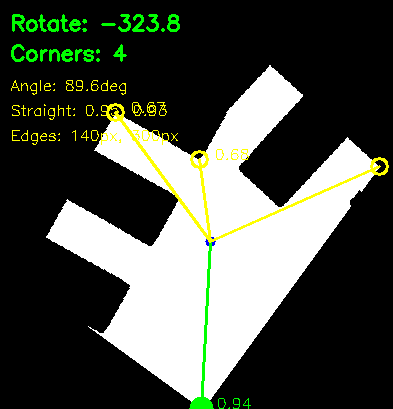
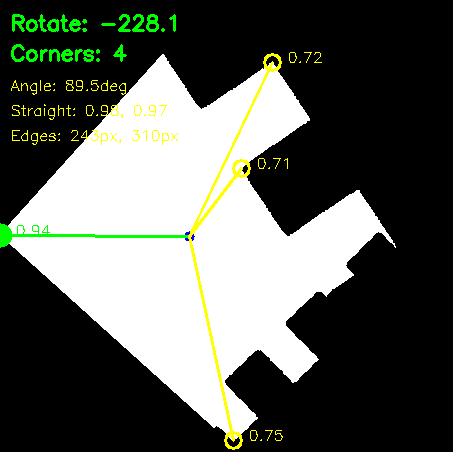
movement arrows

Changed region(s): [[0.0, 0.0293, 1.0, 1.0]]

diff --git a/src/ui/simulator/solver_visualizer.py b/src/ui/simulator/solver_visualizer.py
@@ -349,18 +349,6 @@ class SolverVisualizer(BoxLayout):
         if show_movements and 'movement_data' in self.solver_data:
             canvas = self._add_com_dots(canvas)
         
-        # Area labels
-        cv2.putText(canvas, "A5 SOURCE (Original)", (source_offset_x + 15, source_offset_y + 35), cv2.FONT_HERSHEY_SIMPLEX, 0.9, (255, 255, 255), 3)
-        cv2.putText(canvas, "A5 SOURCE (Original)", (source_offset_x + 15, source_offset_y + 35), cv2.FONT_HERSHEY_SIMPLEX, 0.9, (0, 150, 0), 2)
-        cv2.putText(canvas, "A4 TARGET (Current)", (target_offset_x + 15, target_offset_y + 35), cv2.FONT_HERSHEY_SIMPLEX, 0.9, (255, 255, 255), 3)
-        cv2.putText(canvas, "A4 TARGET (Current)", (target_offset_x + 15, target_offset_y + 35), cv2.FONT_HERSHEY_SIMPLEX, 0.9, (0, 100, 200), 2)
-        
-        # Grid
-        for i in range(0, global_height, 100):
-            cv2.line(canvas, (0, i), (global_width, i), (180, 180, 180), 1)
-        for i in range(0, global_width, 100):
-            cv2.line(canvas, (i, 0), (i, global_height), (180, 180, 180), 1)
-        
         return canvas
         
     def _rotate_shape(self, shape: np.ndarray, angle: float) -> np.ndarray:
@@ -470,52 +458,222 @@ class SolverVisualizer(BoxLayout):
         
         self.image_widget.texture = texture
 
+
     def _add_com_dots(self, canvas):
-        """Add COM dots to existing canvas."""
+        """Add COM dots, movement arrows, and movement values to existing canvas."""
         movement_data = self.solver_data['movement_data']
         source_coms = movement_data.get('source_coms', {})
         target_coms = movement_data.get('target_coms', {})
         movements = movement_data.get('movements', {})
         
+        print(f"🎯 Adding COM visualization for {len(source_coms)} pieces...")
+        
+        movement_summary = []  # Collect movement data for display
+        
         for piece_id in source_coms:
             source_com = source_coms[piece_id]
             
-            # Source COM (yellow)
+            # Source COM (yellow with S)
             cv2.circle(canvas, (int(source_com[0]), int(source_com[1])), 8, (0, 0, 0), -1)
             cv2.circle(canvas, (int(source_com[0]), int(source_com[1])), 6, (255, 255, 0), -1)
-            cv2.putText(canvas, "S", (int(source_com[0]) - 4, int(source_com[1]) + 3), cv2.FONT_HERSHEY_SIMPLEX, 0.3, (0, 0, 0), 1)
+            cv2.putText(canvas, "S", (int(source_com[0]) - 4, int(source_com[1]) + 3), 
+                    cv2.FONT_HERSHEY_SIMPLEX, 0.3, (0, 0, 0), 1)
             
-            # Target COM (cyan)
-            if piece_id in target_coms:
+            # Target COM and movement arrow
+            if piece_id in target_coms and piece_id in movements:
                 target_com = target_coms[piece_id]
+                movement = movements[piece_id]
+                
+                # Target COM (cyan with T)
                 cv2.circle(canvas, (int(target_com[0]), int(target_com[1])), 8, (0, 0, 0), -1)
                 cv2.circle(canvas, (int(target_com[0]), int(target_com[1])), 6, (0, 255, 255), -1)
-                cv2.putText(canvas, "T", (int(target_com[0]) - 4, int(target_com[1]) + 3), cv2.FONT_HERSHEY_SIMPLEX, 0.3, (0, 0, 0), 1)
+                cv2.putText(canvas, "T", (int(target_com[0]) - 4, int(target_com[1]) + 3), 
+                        cv2.FONT_HERSHEY_SIMPLEX, 0.3, (0, 0, 0), 1)
                 
-                # Movement info
-                if piece_id in movements:
-                    movement = movements[piece_id]
-                    text = f"P{piece_id}: {movement['distance']:.0f}px"
-                    if abs(movement['rotation']) > 5:
-                        text += f", {movement['rotation']:+.0f}°"
+                # Calculate movement components
+                dx = target_com[0] - source_com[0]  # X movement (positive = right)
+                dy = target_com[1] - source_com[1]  # Y movement (positive = down)
+                distance = movement['distance']
+                rotation = movement['rotation']
+                
+                # Store movement summary for display
+                movement_summary.append({
+                    'piece_id': piece_id,
+                    'dx': dx,
+                    'dy': dy, 
+                    'distance': distance,
+                    'rotation': rotation
+                })
+                
+                # Draw movement arrow (only if significant movement > 10px)
+                if distance > 10:
+                    start_point = (int(source_com[0]), int(source_com[1]))
+                    end_point = (int(target_com[0]), int(target_com[1]))
                     
-                    text_x, text_y = int(source_com[0]) + 15, int(source_com[1]) - 10
-                    (text_width, text_height), _ = cv2.getTextSize(text, cv2.FONT_HERSHEY_SIMPLEX, 0.4, 1)
-                    cv2.rectangle(canvas, (text_x - 2, text_y - text_height - 2), (text_x + text_width + 2, text_y + 2), (255, 255, 255), -1)
-                    cv2.putText(canvas, text, (text_x, text_y), cv2.FONT_HERSHEY_SIMPLEX, 0.4, (0, 0, 0), 1)
+                    # Draw thick arrow
+                    cv2.arrowedLine(canvas, start_point, end_point, (50, 50, 200), 4, tipLength=0.1)
+                    
+                    # Add distance label at midpoint of arrow
+                    mid_x = int((source_com[0] + target_com[0]) / 2)
+                    mid_y = int((source_com[1] + target_com[1]) / 2)
+                    
+                    dist_text = f"{distance:.0f}px"
+                    (text_w, text_h), _ = cv2.getTextSize(dist_text, cv2.FONT_HERSHEY_SIMPLEX, 0.4, 1)
+                    
+                    # White background for distance text
+                    cv2.rectangle(canvas, 
+                                (mid_x - text_w//2 - 3, mid_y - text_h - 3),
+                                (mid_x + text_w//2 + 3, mid_y + 3),
+                                (255, 255, 255), -1)
+                    cv2.rectangle(canvas,
+                                (mid_x - text_w//2 - 3, mid_y - text_h - 3),
+                                (mid_x + text_w//2 + 3, mid_y + 3),
+                                (0, 0, 0), 1)
+                    
+                    cv2.putText(canvas, dist_text, (mid_x - text_w//2, mid_y - 2),
+                            cv2.FONT_HERSHEY_SIMPLEX, 0.4, (50, 50, 200), 1)
+                
+                # Draw rotation indicator at target position
+                if abs(rotation) > 5:  # Only show significant rotations
+                    center = (int(target_com[0]), int(target_com[1]))
+                    radius = 20
+                    
+                    # Draw rotation arc
+                    if rotation > 0:
+                        # Clockwise rotation (red)
+                        cv2.ellipse(canvas, center, (radius, radius), 0, 0, min(90, abs(rotation)), (0, 0, 200), 2)
+                        rot_symbol = f"↻{rotation:.0f}°"
+                    else:
+                        # Counter-clockwise rotation (blue)
+                        cv2.ellipse(canvas, center, (radius, radius), 0, max(-90, rotation), 0, (200, 0, 0), 2)
+                        rot_symbol = f"↺{abs(rotation):.0f}°"
+                    
+                    # Add rotation text near target
+                    cv2.putText(canvas, rot_symbol, 
+                            (center[0] + 25, center[1] - 5),
+                            cv2.FONT_HERSHEY_SIMPLEX, 0.4, (0, 0, 0), 1)
         
-        # Legend
-        legend_x, legend_y = 20, canvas.shape[0] - 60
-        cv2.rectangle(canvas, (legend_x - 5, legend_y - 35), (legend_x + 200, legend_y + 5), (255, 255, 255), -1)
-        cv2.rectangle(canvas, (legend_x - 5, legend_y - 35), (legend_x + 200, legend_y + 5), (0, 0, 0), 1)
-        cv2.putText(canvas, "Center of Mass:", (legend_x, legend_y - 20), cv2.FONT_HERSHEY_SIMPLEX, 0.5, (0, 0, 0), 1)
-        cv2.circle(canvas, (legend_x + 20, legend_y - 5), 6, (255, 255, 0), -1)
-        cv2.putText(canvas, "Source", (legend_x + 30, legend_y - 1), cv2.FONT_HERSHEY_SIMPLEX, 0.4, (0, 0, 0), 1)
-        cv2.circle(canvas, (legend_x + 90, legend_y - 5), 6, (0, 255, 255), -1)
-        cv2.putText(canvas, "Target", (legend_x + 100, legend_y - 1), cv2.FONT_HERSHEY_SIMPLEX, 0.4, (0, 0, 0), 1)
+        # Add comprehensive movement summary at bottom
+        self._draw_movement_summary(canvas, movement_summary)
         
+        # Add legend at top
+        # self._draw_movement_legend(canvas)
+        
+        print(f"   ✅ Added COM dots, arrows, and movement data for {len(movement_summary)} pieces")
         return canvas
 
+
+    def _draw_movement_summary(self, canvas, movement_summary):
+        """Draw detailed movement summary at bottom of canvas - clean format for robot."""
+        if not movement_summary:
+            return
+        
+        # Position summary at bottom center
+        canvas_height, canvas_width = canvas.shape[:2]
+        summary_x = 20
+        summary_y = canvas_height - 120
+        summary_width = canvas_width - 40
+        summary_height = 100
+        
+        # Background box
+        cv2.rectangle(canvas, 
+                    (summary_x, summary_y), 
+                    (summary_x + summary_width, summary_y + summary_height),
+                    (255, 255, 255), -1)
+        cv2.rectangle(canvas,
+                    (summary_x, summary_y),
+                    (summary_x + summary_width, summary_y + summary_height),
+                    (0, 0, 0), 2)
+        
+        # Title
+        cv2.putText(canvas, "ROBOT MOVEMENT INSTRUCTIONS", 
+                (summary_x + 10, summary_y + 20),
+                cv2.FONT_HERSHEY_SIMPLEX, 0.6, (0, 0, 0), 2)
+        
+        # Column headers
+        header_y = summary_y + 40
+        cv2.putText(canvas, "Piece", (summary_x + 10, header_y), cv2.FONT_HERSHEY_SIMPLEX, 0.4, (0, 0, 0), 1)
+        cv2.putText(canvas, "X Move (mm)", (summary_x + 60, header_y), cv2.FONT_HERSHEY_SIMPLEX, 0.4, (0, 0, 0), 1)
+        cv2.putText(canvas, "Y Move (mm)", (summary_x + 150, header_y), cv2.FONT_HERSHEY_SIMPLEX, 0.4, (0, 0, 0), 1)
+        cv2.putText(canvas, "Distance (mm)", (summary_x + 240, header_y), cv2.FONT_HERSHEY_SIMPLEX, 0.4, (0, 0, 0), 1)
+        cv2.putText(canvas, "Rotation (deg)", (summary_x + 340, header_y), cv2.FONT_HERSHEY_SIMPLEX, 0.4, (0, 0, 0), 1)
+        
+        # Draw header line
+        cv2.line(canvas, (summary_x + 5, header_y + 5), (summary_x + summary_width - 10, header_y + 5), (0, 0, 0), 1)
+        
+        # Movement data for each piece
+        for i, movement in enumerate(movement_summary):
+            data_y = header_y + 20 + (i * 18)
+            
+            if data_y > summary_y + summary_height - 10:  # Don't overflow box
+                break
+            
+            piece_id = movement['piece_id']
+            
+            # Get movement data from the movement dictionary  
+            movement_data = self.solver_data['movement_data']['movements'].get(piece_id, {})
+            x_mm = movement_data.get('x_mm', 0)
+            y_mm = movement_data.get('y_mm', 0)
+            distance_mm = movement_data.get('distance_mm', 0)
+            rotation = movement_data.get('rotation', 0)
+            
+            # Convert rotation to 0-360 range
+            rotation_360 = rotation % 360
+            
+            # Piece ID
+            cv2.putText(canvas, f"P{piece_id}", (summary_x + 15, data_y), cv2.FONT_HERSHEY_SIMPLEX, 0.4, (0, 0, 0), 1)
+            
+            # X Movement in mm
+            x_text = f"{x_mm:+.1f}" if abs(x_mm) > 0.1 else "0.0"
+            cv2.putText(canvas, x_text, (summary_x + 75, data_y), cv2.FONT_HERSHEY_SIMPLEX, 0.4, (0, 0, 0), 1)
+            
+            # Y Movement in mm
+            y_text = f"{y_mm:+.1f}" if abs(y_mm) > 0.1 else "0.0"
+            cv2.putText(canvas, y_text, (summary_x + 165, data_y), cv2.FONT_HERSHEY_SIMPLEX, 0.4, (0, 0, 0), 1)
+            
+            # Total Distance in mm
+            cv2.putText(canvas, f"{distance_mm:.1f}", (summary_x + 260, data_y), cv2.FONT_HERSHEY_SIMPLEX, 0.4, (0, 0, 0), 1)
+            
+            # Rotation in 0-360 degrees
+            cv2.putText(canvas, f"{rotation_360:.0f}", (summary_x + 365, data_y), cv2.FONT_HERSHEY_SIMPLEX, 0.4, (0, 0, 0), 1)
+
+
+    def _draw_movement_legend(self, canvas):
+        """Draw legend explaining movement visualization symbols."""
+        legend_x = 20
+        legend_y = 80
+        legend_width = 450
+        legend_height = 80
+        
+        # Background
+        cv2.rectangle(canvas, (legend_x, legend_y), (legend_x + legend_width, legend_y + legend_height), (255, 255, 255), -1)
+        cv2.rectangle(canvas, (legend_x, legend_y), (legend_x + legend_width, legend_y + legend_height), (0, 0, 0), 1)
+        
+        # Title
+        cv2.putText(canvas, "Movement Legend:", (legend_x + 10, legend_y + 18), cv2.FONT_HERSHEY_SIMPLEX, 0.5, (0, 0, 0), 1)
+        
+        # COM dots
+        y_line1 = legend_y + 35
+        cv2.circle(canvas, (legend_x + 20, y_line1), 6, (255, 255, 0), -1)
+        cv2.putText(canvas, "Source COM", (legend_x + 30, y_line1 + 4), cv2.FONT_HERSHEY_SIMPLEX, 0.4, (0, 0, 0), 1)
+        
+        cv2.circle(canvas, (legend_x + 120, y_line1), 6, (0, 255, 255), -1)
+        cv2.putText(canvas, "Target COM", (legend_x + 130, y_line1 + 4), cv2.FONT_HERSHEY_SIMPLEX, 0.4, (0, 0, 0), 1)
+        
+        # Movement arrow
+        arrow_start = (legend_x + 220, y_line1)
+        arrow_end = (legend_x + 250, y_line1)
+        cv2.arrowedLine(canvas, arrow_start, arrow_end, (50, 50, 200), 3, tipLength=0.2)
+        cv2.putText(canvas, "Movement", (legend_x + 260, y_line1 + 4), cv2.FONT_HERSHEY_SIMPLEX, 0.4, (0, 0, 0), 1)
+        
+        # Rotation indicators
+        y_line2 = legend_y + 55
+        cv2.putText(canvas, "Rotation:", (legend_x + 10, y_line2 + 4), cv2.FONT_HERSHEY_SIMPLEX, 0.4, (0, 0, 0), 1)
+        cv2.putText(canvas, "↻ Clockwise", (legend_x + 80, y_line2 + 4), cv2.FONT_HERSHEY_SIMPLEX, 0.4, (0, 0, 200), 1)
+        cv2.putText(canvas, "↺ Counter-CW", (legend_x + 180, y_line2 + 4), cv2.FONT_HERSHEY_SIMPLEX, 0.4, (200, 0, 0), 1)
+        
+        # Movement directions
+        cv2.putText(canvas, "→←↑↓ Direction", (legend_x + 290, y_line2 + 4), cv2.FONT_HERSHEY_SIMPLEX, 0.4, (0, 0, 0), 1)
 
     def add_movement_button_to_init(self):
         """Add this button to your button_row1 in __init__"""

diff --git a/src/solver/movement_analyzer.py b/src/solver/movement_analyzer.py
@@ -1,5 +1,3 @@
-# Movement Analysis Utility
-# Calculate center of mass for pieces in best solution
 
 import numpy as np
 import cv2
@@ -84,16 +82,23 @@ class MovementAnalyzer:
         surfaces: dict
     ) -> Dict:
         """
-        Analyze movements for the best solution.
+        Analyze movements for the best solution with detailed robot movement calculations.
         
         Returns:
             {
                 'source_coms': {piece_id: (x, y)},  # COM in source area
                 'target_coms': {piece_id: (x, y)},  # COM in target area  
-                'movements': {piece_id: {'distance': float, 'rotation': float}}
+                'movements': {piece_id: {
+                    'distance': float,      # Total distance to move
+                    'rotation': float,      # Rotation change in degrees
+                    'dx': float,           # X movement (+ = right, - = left)
+                    'dy': float,           # Y movement (+ = down, - = up)
+                    'x_mm': float,         # X movement in mm for robot
+                    'y_mm': float,         # Y movement in mm for robot
+                }}
             }
         """
-        print("\n🔍 Analyzing movements for best solution...")
+        print("\n🔍 Analyzing robot movements for best solution...")
         
         source_coms = {}
         target_coms = {}
@@ -104,6 +109,9 @@ class MovementAnalyzer:
         source_offset_y = surfaces['source']['offset_y']
         target_offset_x = surfaces['target']['offset_x']
         target_offset_y = surfaces['target']['offset_y']
+        
+        # Scale factor (assuming 2 pixels per mm as mentioned in your code)
+        pixels_per_mm = 2.0
         
         # Calculate source COMs (original positions)
         for piece in puzzle_pieces:
@@ -147,13 +155,20 @@ class MovementAnalyzer:
                     target_coms[piece_id] = global_target_com
                     print(f"  Target P{piece_id}: COM at {global_target_com}")
                     
-                    # Calculate movement if we have both source and target
+                    # Calculate detailed movement if we have both source and target
                     if piece_id in source_coms:
                         source = source_coms[piece_id]
                         target = global_target_com
                         
-                        # Calculate distance
-                        distance = np.sqrt((target[0] - source[0])**2 + (target[1] - source[1])**2)
+                        # Calculate movement components
+                        dx = target[0] - source[0]  # Positive = move right
+                        dy = target[1] - source[1]  # Positive = move down
+                        distance = np.sqrt(dx**2 + dy**2)
+                        
+                        # Convert to robot coordinates (mm)
+                        x_mm = dx / pixels_per_mm
+                        y_mm = dy / pixels_per_mm
+                        distance_mm = distance / pixels_per_mm
                         
                         # Calculate rotation change
                         original_piece = next(p for p in puzzle_pieces if int(p.id) == piece_id)
@@ -162,13 +177,27 @@ class MovementAnalyzer:
                             rotation_change -= 360  # Use shortest rotation
                         
                         movements[piece_id] = {
-                            'distance': float(distance),
-                            'rotation': float(rotation_change)
+                            'distance': float(distance),      # Total distance in pixels
+                            'rotation': float(rotation_change), # Rotation in degrees
+                            'dx': float(dx),                   # X movement in pixels
+                            'dy': float(dy),                   # Y movement in pixels
+                            'x_mm': float(x_mm),              # X movement in mm
+                            'y_mm': float(y_mm),              # Y movement in mm
+                            'distance_mm': float(distance_mm)  # Total distance in mm
                         }
                         
-                        print(f"  Movement P{piece_id}: {distance:.1f}px, {rotation_change:.0f}°")
+                        # Determine movement directions
+                        x_direction = "RIGHT" if dx > 0 else "LEFT" if dx < 0 else "NONE"
+                        y_direction = "DOWN" if dy > 0 else "UP" if dy < 0 else "NONE"
+                        rot_direction = "CLOCKWISE" if rotation_change > 0 else "COUNTER-CW" if rotation_change < 0 else "NONE"
+                        
+                        print(f"  Movement P{piece_id}:")
+                        print(f"    Distance: {distance_mm:.1f}mm ({distance:.1f}px)")
+                        print(f"    X: {x_mm:+.1f}mm ({x_direction})")
+                        print(f"    Y: {y_mm:+.1f}mm ({y_direction})")
+                        print(f"    Rotation: {rotation_change:+.0f}° ({rot_direction})")
         
-        print(f"✅ Analyzed movements for {len(movements)} pieces")
+        print(f"✅ Analyzed robot movements for {len(movements)} pieces")
         
         return {
             'source_coms': source_coms,
@@ -177,6 +206,7 @@ class MovementAnalyzer:
         }
 
 
+# Integration function for pipeline.py
 def calculate_movement_data_for_visualizer(solution_data):
     """
     Call this in pipeline.py to pre-calculate movement data.
